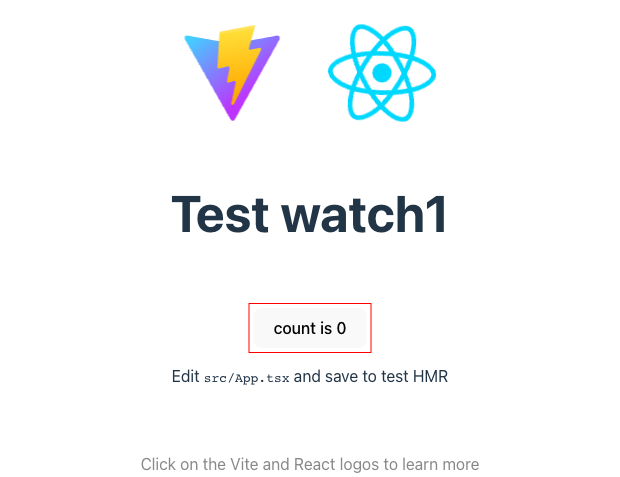
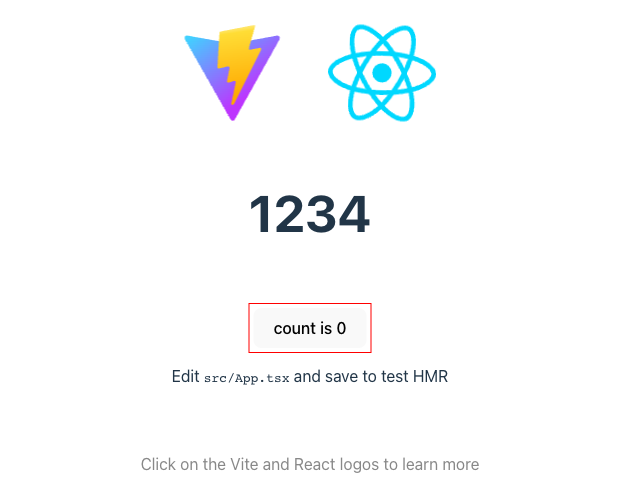
fix: fix building packages process

Changed region(s): [[0.2758, 0.4109, 0.7355, 0.499], [0.521, 0.0587, 0.7048, 0.1761], [0.5516, 0.1761, 0.6742, 0.2642]]

diff --git a/packages/core/src/components/scrshot-mark/scrshot-mark.tsx b/packages/core/src/components/scrshot-mark/scrshot-mark.tsx
@@ -1,32 +1,6 @@
-import { Component, Prop, Element, State, h, Fragment, Watch } from '@stencil/core';
-import { computePosition, offset } from '@floating-ui/dom';
+import { Component, Prop, Element, h, Fragment } from '@stencil/core';
 
 import store from '../../store';
-
-function getArrowProps (arrow?: {
-  color?: string;
-  placement?: 'top' | 'right' | 'bottom' | 'left' | 'bottom-start' | 'bottom-end' | 'top-start' | 'top-end'
-  offset?: number,
-}) {
-  return Object.assign({}, {
-    color: 'red',
-    placement: 'bottom',
-    offset: 8,
-  }, arrow)
-}
-
-function getOutlineProps (outline?: {
-  color?: string;
-  offset?: number;
-  width?: number;
-}) {
-  return Object.assign({}, {
-    color: 'red',
-    placement: 'bottom',
-    offset: 4,
-    width: 1,
-  }, outline)
-}
 
 @Component({
   tag: 'scrshot-mark',
@@ -34,7 +8,8 @@ function getOutlineProps (outline?: {
   shadow: true,
 })
 export class ScrshotMark {
-  @Element() host = null;
+
+  @Element() host!: HTMLElement;
 
   /**
    * 
@@ -44,77 +19,62 @@ export class ScrshotMark {
   /**
    * 
    */
-  @Prop() outline: {
+  @Prop() outline?: {
     color?: string;
     offset?: number;
     width?: number
-  } = getOutlineProps();
+  } | null;
   
   /**
    * 
    */
-  @Prop() arrow: {
+  @Prop() arrow?: {
     color?: string;
     placement?: 'top' | 'right' | 'bottom' | 'left' | 'bottom-start' | 'bottom-end' | 'top-start' | 'top-end'
     offset?: number
-  } = getArrowProps();
-
-  @State() arrowPosition: { x: number, y: number } = { x: null, y: null }
+  };
 
   componentWillLoad() {
-    this.display = 'block';
-    this.arrowPosition = { x: null, y: null };
-    this.arrow = getArrowProps(this.arrow);
-    this.outline = getOutlineProps(this.outline);
-  }
+    this.display = this.display || 'block';
+    
+    if (this.arrow && typeof(this.arrow) === 'object') {
+      this.arrow = Object.assign({}, {
+        color: 'red',
+        placement: 'bottom',
+        offset: 8,
+      }, this.arrow)
+    }
 
-  componentWillRender() {
-    const container = this.host.shadowRoot.querySelector('#scrshot-mark');
-    const arrow = this.host.shadowRoot.querySelector('#scrshot-arrow');
-
-    computePosition(container, arrow, {
-      placement: this.arrow.placement,
-      middleware: [offset(this.outline.offset + this.arrow.offset)]
-    }).then(({ x, y }) => {
-      this.arrowPosition = { x, y }
-    });
-  }
-
-  @Watch('arrow')
-  updateArrowPlacement(next: {
-    color?: string;
-    placement?: 'top' | 'right' | 'bottom' | 'left' | 'bottom-start' | 'bottom-end' | 'top-start' | 'top-end'
-    offset?: number
-  }) {
-    const container = this.host.shadowRoot.querySelector('#scrshot-mark');
-    const arrow = this.host.shadowRoot.querySelector('#scrshot-arrow');
-    const props = getArrowProps(next);
-
-    computePosition(container, arrow, {
-      placement: props.placement,
-      middleware: [offset(this.outline.offset + props.offset)]
-    }).then(({ x, y }) => {
-      this.arrowPosition = { x, y}
-    });
+    if (this.outline !== null) {
+      this.outline = Object.assign({}, {
+        color: 'red',
+        offset: 4,
+        width: 1,
+      }, this.outline)
+    }
   }
 
   render() {
+    const markStyles = {
+      '--scrshot-display': this.display, 
+    }
+
+    if (this.outline) {
+      markStyles['--scrshot-outline-offset'] = `${this.outline.offset}px`;
+      markStyles['--scrshot-outline-color'] = this.outline.color;
+      markStyles['--scrshot-outline-width'] = `${this.outline.width}px`;
+    }
 
     return (
       <Fragment>
         <div 
-          style={{
-            '--scrshot-display': this.display, 
-            '--scrshot-outline-offset': `${this.outline.offset}px`,
-            '--scrshot-outline-color': this.outline.color,
-            '--scrshot-outline-width': `${this.outline.width}px`
-          }} 
+          style={markStyles} 
           class={{ mark: store.isScreenshot || store.isDebug }}
           id="scrshot-mark"
         >
           <slot></slot>
         </div>
-        <div
+        {/* <div
           style={{
             '--scrshot-arrow-color': this.arrow.color,
             left: `${this.arrowPosition.x}px`,
@@ -130,7 +90,7 @@ export class ScrshotMark {
           <svg xmlns="http://www.w3.org/2000/svg" height="48" width="48" viewBox="0 0 32 32">
             <path d="m26.71 10.29-10-10a1 1 0 0 0-1.41 0l-10 10 1.41 1.41L15 3.41V32h2V3.41l8.29 8.29z" stroke="currentColor" fill="currentColor" />
           </svg>
-        </div>
+        </div> */}
       </Fragment>
     );
   }

diff --git a/packages/bundler/index.ts b/packages/bundler/index.ts
@@ -2,7 +2,7 @@ import { createUnplugin } from 'unplugin';
 import path from 'path';
 import { getConfigSync } from '@scrshot/helpers';
 import * as recast from 'recast';
-import * as esprima from 'recast/parsers/esprima';
+import * as esprima from 'recast/parsers/esprima.js';
 
 interface PluginOptions {
   /**
@@ -25,7 +25,6 @@ const componentNames = [
 
 const transformers = {
   react(code: string) {
-    console.log(recast, esprima);
     const ast = recast.parse(code, { parser: esprima });
   
     recast.visit(ast, {
@@ -87,7 +86,7 @@ export const unplugin = createUnplugin((options: PluginOptions = { watch: true, 
       if (typeof watch !== 'undefined' && !watch) {
         // watching images not working in vite https://github.com/vitejs/vite/pull/13371
         // watching images not working in webpack
-        const { config } = getConfigSync() as any;
+        const { config } = getConfigSync();
 
         for (const screenshot of Object.keys(config.screenshots)) {
           this.addWatchFile(path.resolve(process.cwd(), config.dest, `${screenshot}.png`))
@@ -130,15 +129,15 @@ export const unplugin = createUnplugin((options: PluginOptions = { watch: true, 
         case 'react':
           return transformers.react(code);
         default:
-          // this.error('Couldn\'t figure out frameworks you are using');
           return code;
       }
     },
   }
 })
 
-export const vitePlugin = unplugin.vite
-export const rollupPlugin = unplugin.rollup
-export const webpackPlugin = unplugin.webpack
-export const rspackPlugin = unplugin.rspack
-export const esbuildPlugin = unplugin.esbuild
+// FAILING when uncommented
+// export const vitePlugin = unplugin.vite
+// export const rollupPlugin = unplugin.rollup
+// export const webpackPlugin = unplugin.webpack
+// export const rspackPlugin = unplugin.rspack
+// export const esbuildPlugin = unplugin.esbuild

diff --git a/packages/core/src/components.d.ts b/packages/core/src/components.d.ts
@@ -11,17 +11,17 @@ export namespace Components {
     interface ScrshotDebug {
     }
     interface ScrshotMark {
-        "arrow": {
+        "arrow"?: {
     color?: string;
     placement?: 'top' | 'right' | 'bottom' | 'left' | 'bottom-start' | 'bottom-end' | 'top-start' | 'top-end'
     offset?: number
   };
         "display": 'block' | 'inline-block' | 'flex' | 'inline-flex';
-        "outline": {
+        "outline"?: {
     color?: string;
     offset?: number;
     width?: number
-  };
+  } | null;
     }
     interface ScrshotPreventScrolling {
     }
@@ -74,7 +74,7 @@ declare namespace LocalJSX {
     color?: string;
     offset?: number;
     width?: number
-  };
+  } | null;
     }
     interface ScrshotPreventScrolling {
     }

diff --git a/examples/vite-react/src/Content.tsx b/examples/vite-react/src/Content.tsx
@@ -1,5 +1,3 @@
-// @ts-nocheck
-
 import { useState } from 'react'
 import reactLogo from './assets/react.svg'
 import viteLogo from '/vite.svg'
@@ -18,9 +16,9 @@ function Content() {
           <img src={reactLogo} className="logo react" alt="React logo" />
         </a>
       </div>
-      <h1>Test watch1</h1>
+      <h1>1234</h1>
       <div className="card">
-        <ScrshotMark display="inline-flex">
+        <ScrshotMark display="inline-flex" outline={null} arrow={{ placement: 'top-end' }}>
           <button onClick={() => setCount((count) => count + 1)}>
             count is {count}
           </button>

diff --git a/examples/nextjs/next.config.js b/examples/nextjs/next.config.js
@@ -1,5 +1,5 @@
 // import { webpackPlugin } from '@scrshot/bundler';
-const webpackPlugin = require('@scrshot/bundler').webpackPlugin
+const unplugin = require('@scrshot/bundler').unplugin
 // console.log(webpackPlugin)
 
 /** @type {import('next').NextConfig} */
@@ -7,7 +7,7 @@ const nextConfig = {
   reactStrictMode: true,
   webpack: (config) => {
     // console.log();
-    config.plugins.push(webpackPlugin({ strip: false }))
+    config.plugins.push(unplugin.webpack({ strip: true }))
     return config;
   }
 }

diff --git a/examples/vite-react/vite.config.ts b/examples/vite-react/vite.config.ts
@@ -1,8 +1,8 @@
 import { defineConfig } from 'vite'
 import react from '@vitejs/plugin-react-swc'
-import { vitePlugin } from '@scrshot/bundler';
+import { unplugin } from '@scrshot/bundler';
 
 // https://vitejs.dev/config/
 export default defineConfig({
-  plugins: [react(), vitePlugin()],
+  plugins: [react(), unplugin.vite()],
 })

diff --git a/packages/cli/build.config.ts b/packages/cli/build.config.ts
@@ -2,11 +2,12 @@ import { defineBuildConfig } from 'unbuild'
 
 export default defineBuildConfig({
   entries: ['src/index'],
-  clean: true,
+  declaration: true,
   rollup: {
     inlineDependencies: true,
     esbuild: {
       minify: true,
     },
+    emitCJS: true
   }
 })

diff --git a/packages/core/src/components/scrshot-area/scrshot-area.tsx b/packages/core/src/components/scrshot-area/scrshot-area.tsx
@@ -8,7 +8,7 @@ import store from '../../store';
   shadow: true,
 })
 export class ScreenshotArea {
-  @Element() host = null;
+  @Element() host!: HTMLElement;
 
   render() {
     const { width, height } = this.host.getBoundingClientRect();

diff --git a/packages/core/src/components/scrshot-mark/scrshot-mark.css b/packages/core/src/components/scrshot-mark/scrshot-mark.css
@@ -12,7 +12,7 @@
 }
 
 .arrow {
-  visibility: hidden;
+  visibility: none;
   position: absolute;
   top: 0;
   left: 0;
@@ -20,7 +20,7 @@
 }
 
 .arrow.show {
-  visibility: initial;
+  visibility: block;
 }
 
 .position-top {

diff --git a/packages/react/build.config.ts b/packages/react/build.config.ts
@@ -2,7 +2,7 @@ export default {
   entries: [
     './index',
   ],
-  declaration: false,
+  declaration: true,
   failOnWarn: false,
   rollup: {
     emitCJS: true,

diff --git a/packages/bundler/build.config.ts b/packages/bundler/build.config.ts
@@ -2,7 +2,7 @@ export default {
   entries: [
     './index'
   ],
-  declaration: false,
+  declaration: true,
   failOnWarn: false,
   rollup: {
     emitCJS: true,

diff --git a/packages/helpers/build.config.ts b/packages/helpers/build.config.ts
@@ -5,6 +5,7 @@ export default {
   declaration: true,
   failOnWarn: false,
   rollup: {
+    inlineDependencies: false,
     emitCJS: true,
   },
 }
